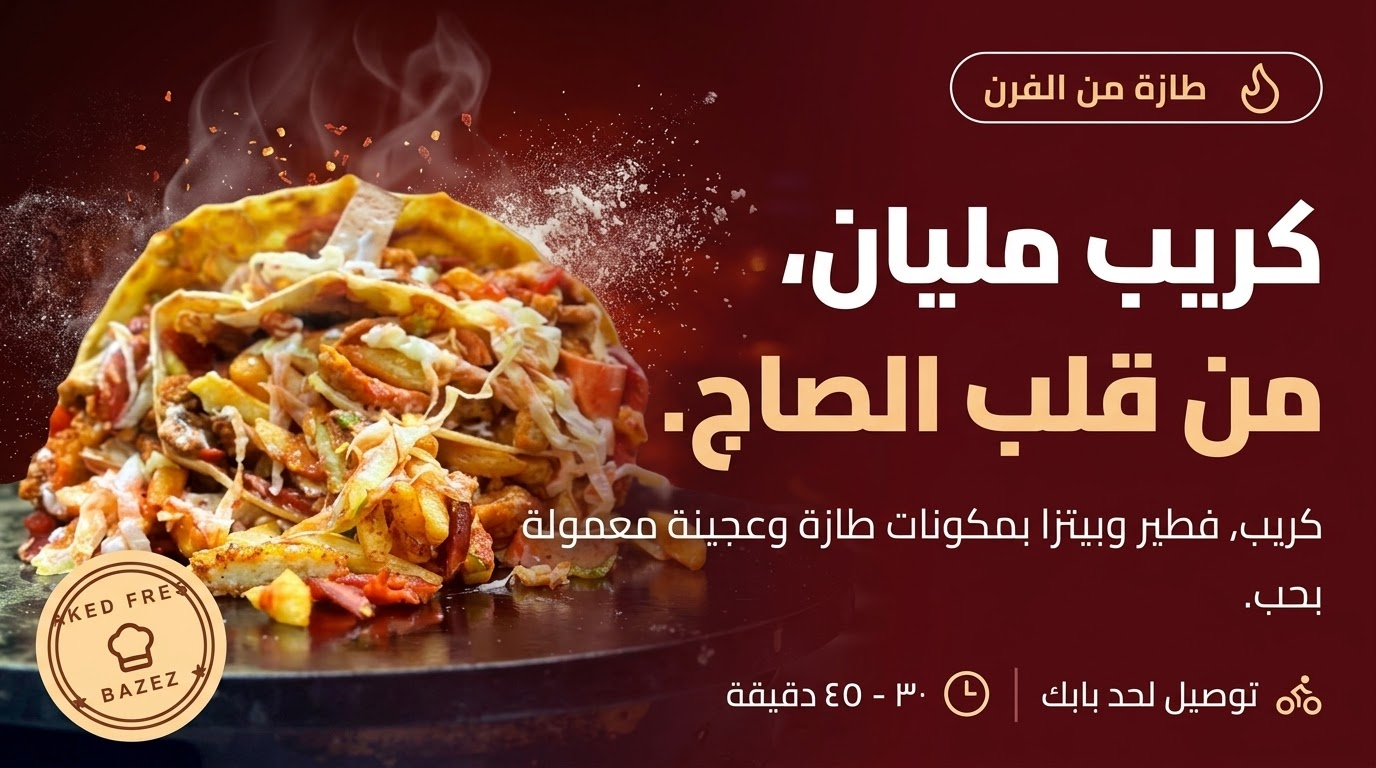
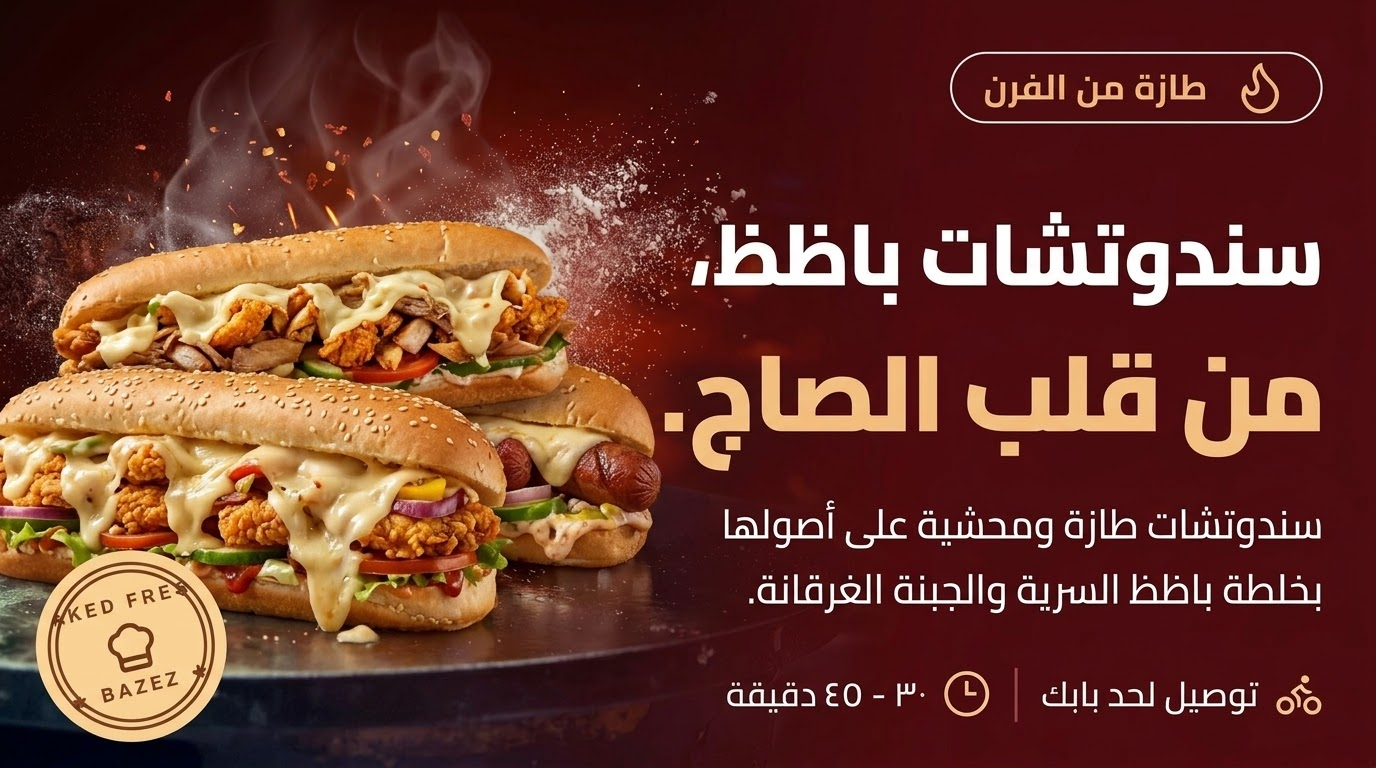
Replace menu gallery with full-resolution promotional images

Changed region(s): [[0.0, 0.1875, 0.9688, 0.875]]

diff --git a/index.html b/index.html
@@ -1,7 +1,7 @@
 <!doctype html><html lang="ar" dir="rtl"><head><meta charset="utf-8"><meta name="viewport" content="width=device-width,initial-scale=1"><title>BAZEZ | الطلبات والمنيو</title><style>
-:root{--red:#b4232e;--soft:#fff0f0;--ink:#292524;--muted:#78716c;--bg:#f7f5f4;--line:#ece7e5}*{box-sizing:border-box}body{margin:0;background:var(--bg);color:var(--ink);font-family:Tahoma,Arial,sans-serif}.top{background:var(--red);color:#fff;padding:17px;text-align:center}.top h1{margin:0}.top p{margin:6px 0 0}.wrap{max-width:1100px;margin:auto;padding:16px}.tabs,.row,.controls,.filters{display:flex;gap:8px;align-items:center;flex-wrap:wrap}.tabs{margin-bottom:14px}.btn,.pill{background:#fff;border:1px solid #e5c9ca;border-radius:10px;padding:9px 13px;cursor:pointer;font:inherit}.btn.active,.pill.active,.primary{background:var(--red);color:#fff;border-color:var(--red)}.primary{border-radius:10px;padding:10px 14px;cursor:pointer;border:0;font-weight:bold}.soft{background:var(--soft);color:var(--red);border:1px solid #efc9cc;border-radius:9px;padding:7px 10px;cursor:pointer}.search,input,textarea,select{font:inherit;color:#292524;caret-color:#b4232e;border:1px solid #d6d3d1;border-radius:10px;padding:10px;background:#fff}.search{width:100%;margin:5px 0 10px}input::placeholder,textarea::placeholder{color:#78716c;opacity:1}input:focus,textarea:focus,select:focus{outline:2px solid #e8a3a7;outline-offset:1px}#loginBox input{color:#292524!important;background:#fff!important;caret-color:#b4232e}.grid{display:grid;grid-template-columns:repeat(auto-fit,minmax(235px,1fr));gap:12px}.card{background:#fff;border:1px solid var(--line);border-radius:15px;padding:14px;box-shadow:0 3px 12px #00000008}.card h3{margin:0 0 5px}.muted{color:var(--muted);font-size:13px}.price{color:var(--red);font-weight:bold}.options{display:flex;gap:6px;flex-wrap:wrap;margin-top:10px}.option{background:var(--soft);color:var(--red);border:1px solid #efc9cc;border-radius:9px;padding:8px;cursor:pointer}.option:disabled{opacity:.45;cursor:not-allowed}.hidden{display:none!important}.section-title{display:flex;justify-content:space-between;align-items:center;margin:10px 0}.form{display:grid;gap:9px}.form input,.form textarea,.form select{width:100%}.cart-line,.stock-line,.order{padding:10px 0;border-bottom:1px solid var(--line)}.total{font-size:19px;font-weight:bold;margin:14px 0}.stats{display:grid;grid-template-columns:repeat(auto-fit,minmax(140px,1fr));gap:10px}.stat{font-size:13px;color:var(--muted)}.stat b{display:block;color:var(--red);font-size:22px}.toast{position:fixed;bottom:calc(76px + env(safe-area-inset-bottom));left:50%;transform:translateX(-50%);background:#292524;color:#fff;padding:10px 16px;border-radius:20px;display:none;z-index:1100}.toast.show{display:block}footer{text-align:center;padding:20px;color:var(--muted)}.gallery-grid{display:flex;gap:12px;overflow-x:auto;scroll-snap-type:x mandatory;scrollbar-width:none;padding:4px 2px 12px;direction:rtl;overscroll-behavior-x:contain;-webkit-overflow-scrolling:touch}.gallery-grid::-webkit-scrollbar{display:none}.gallery-card{flex:0 0 100%;scroll-snap-align:center;overflow:hidden;background:#3b070a;border:1px solid #5b2526;border-radius:12px;box-shadow:0 3px 12px #00000018;aspect-ratio:2.75/1}.gallery-card img{display:block;width:100%;height:100%;object-fit:cover;object-position:center;background:#3b070a}.gallery-controls{display:flex;gap:6px}.gallery-controls button{min-width:40px}.tabs{position:fixed;z-index:1000;right:0;bottom:0;left:0;display:flex;flex-wrap:nowrap;justify-content:space-around;align-items:stretch;gap:4px;margin:0;padding:7px 8px calc(7px + env(safe-area-inset-bottom));background:#fff;border-top:1px solid #e7e5e4;box-shadow:0 -3px 14px #00000012}.tabs .btn{position:relative;flex:1 1 0;min-width:0;display:flex;flex-direction:column;justify-content:center;align-items:center;gap:2px;border:0;border-radius:8px;background:transparent;color:#292524;padding:3px 2px;font-size:12px;line-height:1.2;white-space:nowrap}.tabs .btn::before{font-size:19px;line-height:1.1}.tabs .btn[data-tab="menu"]::before{content:"☰"}.tabs .btn[data-tab="cart"]::before{content:"🛒"}.tabs .btn[data-tab="orders"]::before{content:"▤"}.tabs .btn[data-tab="admin"]::before{content:"♙"}.tabs .btn[data-tab="contact"]::before{content:"♧"}.tabs .btn.active{background:var(--red);color:#fff}.tabs #cartCount{position:absolute;top:1px;right:calc(50% - 24px);min-width:15px;padding:1px 4px;border-radius:10px;background:#fff;color:var(--red);font-size:9px;line-height:1.3}@media(min-width:760px){.tabs{right:50%;left:auto;bottom:16px;transform:translateX(50%);width:min(560px,calc(100% - 32px));border:1px solid #e7e5e4;border-radius:14px;padding:8px;}.wrap{padding-bottom:100px}}@media(max-width:759px){body{padding-bottom:calc(70px + env(safe-area-inset-bottom))}.wrap{padding-bottom:12px}}
+:root{--red:#b4232e;--soft:#fff0f0;--ink:#292524;--muted:#78716c;--bg:#f7f5f4;--line:#ece7e5}*{box-sizing:border-box}body{margin:0;background:var(--bg);color:var(--ink);font-family:Tahoma,Arial,sans-serif}.top{background:var(--red);color:#fff;padding:17px;text-align:center}.top h1{margin:0}.top p{margin:6px 0 0}.wrap{max-width:1100px;margin:auto;padding:16px}.tabs,.row,.controls,.filters{display:flex;gap:8px;align-items:center;flex-wrap:wrap}.tabs{margin-bottom:14px}.btn,.pill{background:#fff;border:1px solid #e5c9ca;border-radius:10px;padding:9px 13px;cursor:pointer;font:inherit}.btn.active,.pill.active,.primary{background:var(--red);color:#fff;border-color:var(--red)}.primary{border-radius:10px;padding:10px 14px;cursor:pointer;border:0;font-weight:bold}.soft{background:var(--soft);color:var(--red);border:1px solid #efc9cc;border-radius:9px;padding:7px 10px;cursor:pointer}.search,input,textarea,select{font:inherit;color:#292524;caret-color:#b4232e;border:1px solid #d6d3d1;border-radius:10px;padding:10px;background:#fff}.search{width:100%;margin:5px 0 10px}input::placeholder,textarea::placeholder{color:#78716c;opacity:1}input:focus,textarea:focus,select:focus{outline:2px solid #e8a3a7;outline-offset:1px}#loginBox input{color:#292524!important;background:#fff!important;caret-color:#b4232e}.grid{display:grid;grid-template-columns:repeat(auto-fit,minmax(235px,1fr));gap:12px}.card{background:#fff;border:1px solid var(--line);border-radius:15px;padding:14px;box-shadow:0 3px 12px #00000008}.card h3{margin:0 0 5px}.muted{color:var(--muted);font-size:13px}.price{color:var(--red);font-weight:bold}.options{display:flex;gap:6px;flex-wrap:wrap;margin-top:10px}.option{background:var(--soft);color:var(--red);border:1px solid #efc9cc;border-radius:9px;padding:8px;cursor:pointer}.option:disabled{opacity:.45;cursor:not-allowed}.hidden{display:none!important}.section-title{display:flex;justify-content:space-between;align-items:center;margin:10px 0}.form{display:grid;gap:9px}.form input,.form textarea,.form select{width:100%}.cart-line,.stock-line,.order{padding:10px 0;border-bottom:1px solid var(--line)}.total{font-size:19px;font-weight:bold;margin:14px 0}.stats{display:grid;grid-template-columns:repeat(auto-fit,minmax(140px,1fr));gap:10px}.stat{font-size:13px;color:var(--muted)}.stat b{display:block;color:var(--red);font-size:22px}.toast{position:fixed;bottom:calc(76px + env(safe-area-inset-bottom));left:50%;transform:translateX(-50%);background:#292524;color:#fff;padding:10px 16px;border-radius:20px;display:none;z-index:1100}.toast.show{display:block}footer{text-align:center;padding:20px;color:var(--muted)}.gallery-grid{display:flex;gap:12px;overflow-x:auto;scroll-snap-type:x mandatory;scrollbar-width:none;padding:4px 2px 12px;direction:rtl;overscroll-behavior-x:contain;-webkit-overflow-scrolling:touch}.gallery-grid::-webkit-scrollbar{display:none}.gallery-card{flex:0 0 100%;scroll-snap-align:center;overflow:hidden;background:#3b070a;border:1px solid #5b2526;border-radius:12px;box-shadow:0 3px 12px #00000018;aspect-ratio:43/24}.gallery-card img{display:block;width:100%;height:100%;object-fit:contain;object-position:center;background:#3b070a}.gallery-controls{display:flex;gap:6px}.gallery-controls button{min-width:40px}.tabs{position:fixed;z-index:1000;right:0;bottom:0;left:0;display:flex;flex-wrap:nowrap;justify-content:space-around;align-items:stretch;gap:4px;margin:0;padding:7px 8px calc(7px + env(safe-area-inset-bottom));background:#fff;border-top:1px solid #e7e5e4;box-shadow:0 -3px 14px #00000012}.tabs .btn{position:relative;flex:1 1 0;min-width:0;display:flex;flex-direction:column;justify-content:center;align-items:center;gap:2px;border:0;border-radius:8px;background:transparent;color:#292524;padding:3px 2px;font-size:12px;line-height:1.2;white-space:nowrap}.tabs .btn::before{font-size:19px;line-height:1.1}.tabs .btn[data-tab="menu"]::before{content:"☰"}.tabs .btn[data-tab="cart"]::before{content:"🛒"}.tabs .btn[data-tab="orders"]::before{content:"▤"}.tabs .btn[data-tab="admin"]::before{content:"♙"}.tabs .btn[data-tab="contact"]::before{content:"♧"}.tabs .btn.active{background:var(--red);color:#fff}.tabs #cartCount{position:absolute;top:1px;right:calc(50% - 24px);min-width:15px;padding:1px 4px;border-radius:10px;background:#fff;color:var(--red);font-size:9px;line-height:1.3}@media(min-width:760px){.tabs{right:50%;left:auto;bottom:16px;transform:translateX(50%);width:min(560px,calc(100% - 32px));border:1px solid #e7e5e4;border-radius:14px;padding:8px;}.wrap{padding-bottom:100px}}@media(max-width:759px){body{padding-bottom:calc(70px + env(safe-area-inset-bottom))}.wrap{padding-bottom:12px}}
 </style><link rel="stylesheet" href="menu-images.css?v=shawarma-normal-price"><script src="menu-content.js?v=dedupe-strips-options-v2"></script></head><body><header class="top"><h1>BAZEZ باظظ</h1><p>بيتزا • فطير • كريب — على الحلو والحادق معاك</p></header><main class="wrap"><nav class="tabs"><button class="btn active" data-tab="menu">المنيو</button><button class="btn" data-tab="cart">السلة <span id="cartCount">0</span></button><button class="btn" data-tab="orders">طلباتي</button><button class="btn" data-tab="admin">الإدارة</button><button class="btn" data-tab="contact">الفروع</button></nav>
-<section id="menu"><div class="section-title"><h2>عروض BAZEZ</h2><div class="gallery-controls"><button class="btn" type="button" aria-label="الصورة السابقة" onclick="document.getElementById('menuGallery').scrollBy({left:320,behavior:'smooth'})">‹</button><button class="btn" type="button" aria-label="الصورة التالية" onclick="document.getElementById('menuGallery').scrollBy({left:-320,behavior:'smooth'})">›</button></div></div><div class="gallery-grid" id="menuGallery"><div class="gallery-card"><img src="images/promo-01.jpg" alt="عرض من BAZEZ" loading="lazy"/></div><div class="gallery-card"><img src="images/promo-02.jpg" alt="عرض من BAZEZ" loading="lazy"/></div><div class="gallery-card"><img src="images/promo-03.jpg" alt="عرض من BAZEZ" loading="lazy"/></div><div class="gallery-card"><img src="images/promo-04.jpg" alt="عرض من BAZEZ" loading="lazy"/></div><div class="gallery-card"><img src="images/promo-05.jpg" alt="عرض من BAZEZ" loading="lazy"/></div><div class="gallery-card"><img src="images/promo-06.jpg" alt="عرض من BAZEZ" loading="lazy"/></div><div class="gallery-card"><img src="images/promo-07.jpg" alt="عرض من BAZEZ" loading="lazy"/></div><div class="gallery-card"><img src="images/promo-08.jpg" alt="عرض من BAZEZ" loading="lazy"/></div></div><p class="muted">اسحب الصور للتقليب بينها</p><input class="search" id="search" placeholder="ابحث عن صنف أو مكون..."/><div id="categories" class="filters"></div><div class="section-title menu-heading" id="categoryHeading"><div class="menu-heading-copy"><h2 id="catTitle">المنيو</h2><span id="catCount" class="muted"></span></div><img id="categoryBanner" class="category-banner hidden" alt="" loading="lazy"/></div><div id="menuList" class="grid"></div></section>
+<section id="menu"><div class="section-title"><h2>عروض BAZEZ</h2><div class="gallery-controls"><button class="btn" type="button" aria-label="الصورة السابقة" onclick="document.getElementById('menuGallery').scrollBy({left:320,behavior:'smooth'})">‹</button><button class="btn" type="button" aria-label="الصورة التالية" onclick="document.getElementById('menuGallery').scrollBy({left:-320,behavior:'smooth'})">›</button></div></div><div class="gallery-grid" id="menuGallery"><div class="gallery-card"><img src="images/promo-01.jpg" alt="وجبة شير الكريب" loading="lazy" decoding="async"/></div><div class="gallery-card"><img src="images/promo-02.jpg" alt="سندوتشات بافظظ" loading="lazy" decoding="async"/></div><div class="gallery-card"><img src="images/promo-03.jpg" alt="شير الكريب" loading="lazy" decoding="async"/></div><div class="gallery-card"><img src="images/promo-04.jpg" alt="بيتزا بالجبنة" loading="lazy" decoding="async"/></div><div class="gallery-card"><img src="images/promo-05.jpg" alt="طاسات بافظظ" loading="lazy" decoding="async"/></div><div class="gallery-card"><img src="images/promo-06.jpg" alt="وافل شوكولاتة ولوتس" loading="lazy" decoding="async"/></div><div class="gallery-card"><img src="images/promo-07.jpg" alt="بيتزا شرقي بافظظ" loading="lazy" decoding="async"/></div><div class="gallery-card"><img src="images/promo-08.jpg" alt="مكرونة بافظظ" loading="lazy" decoding="async"/></div><div class="gallery-card"><img src="images/promo-09.jpg" alt="كريب ميلاين" loading="lazy" decoding="async"/></div><div class="gallery-card"><img src="images/promo-10.jpg" alt="برجر بافظظ" loading="lazy" decoding="async"/></div><div class="gallery-card"><img src="images/promo-11.jpg" alt="تشكيلة بافظظ" loading="lazy" decoding="async"/></div><div class="gallery-card"><img src="images/promo-12.jpg" alt="فطير حلو بافظظ" loading="lazy" decoding="async"/></div><div class="gallery-card"><img src="images/promo-13.jpg" alt="صواريخ بافظظ" loading="lazy" decoding="async"/></div></div><p class="muted">اسحب الصور للتقليب بينها</p><input class="search" id="search" placeholder="ابحث عن صنف أو مكون..."/><div id="categories" class="filters"></div><div class="section-title menu-heading" id="categoryHeading"><div class="menu-heading-copy"><h2 id="catTitle">المنيو</h2><span id="catCount" class="muted"></span></div><img id="categoryBanner" class="category-banner hidden" alt="" loading="lazy"/></div><div id="menuList" class="grid"></div></section>
 <section id="cart" class="hidden"><div class="card"><h2>سلة الطلب</h2><div id="cartLines"></div><div class="total" id="cartTotal"></div><form id="orderForm" class="form"><input id="custName" placeholder="الاسم" required/><input id="custPhone" placeholder="رقم الهاتف" required/><select id="orderType"><option>استلام من الفرع</option><option>توصيل</option></select><select id="branch"><option>الفرنواني</option><option>كوبري بيجام</option></select><select id="payment"><option>كاش</option><option>محفظة إلكترونية</option></select><textarea id="address" placeholder="العنوان وملاحظات الطلب"></textarea><button class="primary">تأكيد الطلب عبر واتساب</button></form></div></section>
 <section id="orders" class="hidden"><div class="card"><h2>الطلبات المسجلة على هذا الجهاز</h2><div id="ordersList"></div></div></section>
 <section id="contact" class="hidden"><div class="grid"><article class="card"><h2>الفرنواني</h2><p>5 ش علي زين العابدين بالقرب من موقف المؤسسة، شبرا الخيمة</p><p>رقم الهاتف: 01105712868</p><p>رقم الكاش: 01105712868</p></article><article class="card"><h2>كوبري بيجام</h2><p>شبرا الخيمة، كوبري بيجام، بجوار مجوهرات لازورد</p><p>رقم الهاتف 1: 01042011051</p><p>رقم الهاتف 2: 01113123650</p><p>رقم الكاش: 01042011051</p></article><article class="card"><h2>مواعيد العمل</h2><p>يومياً من الساعة الثالثة عصراً إلى الخامسة فجراً</p></article></div></section>
